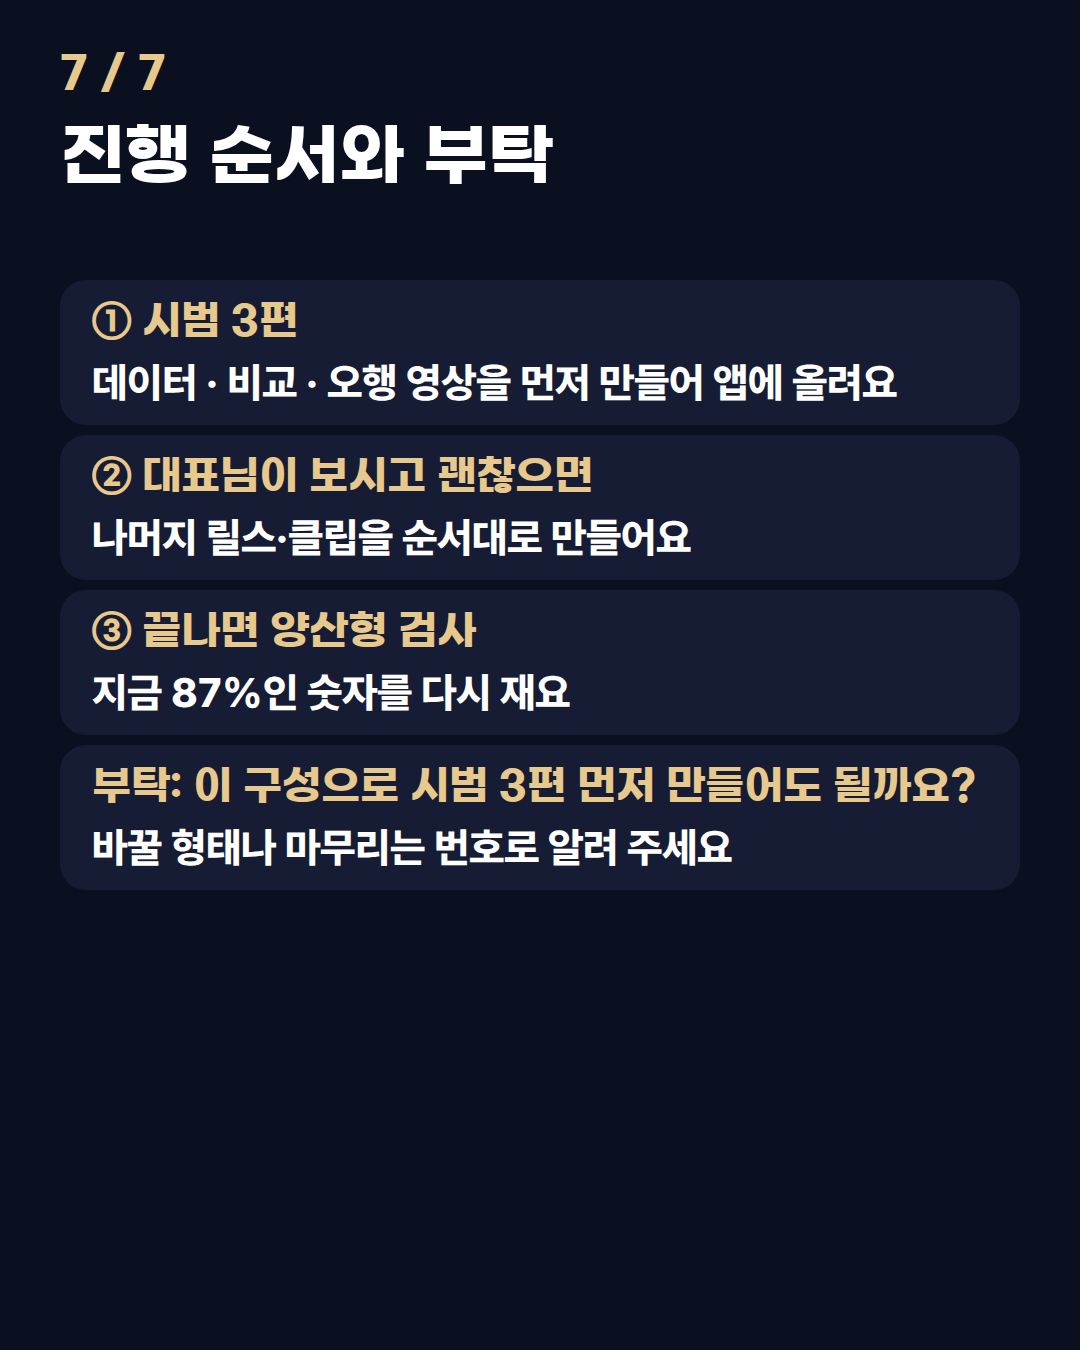
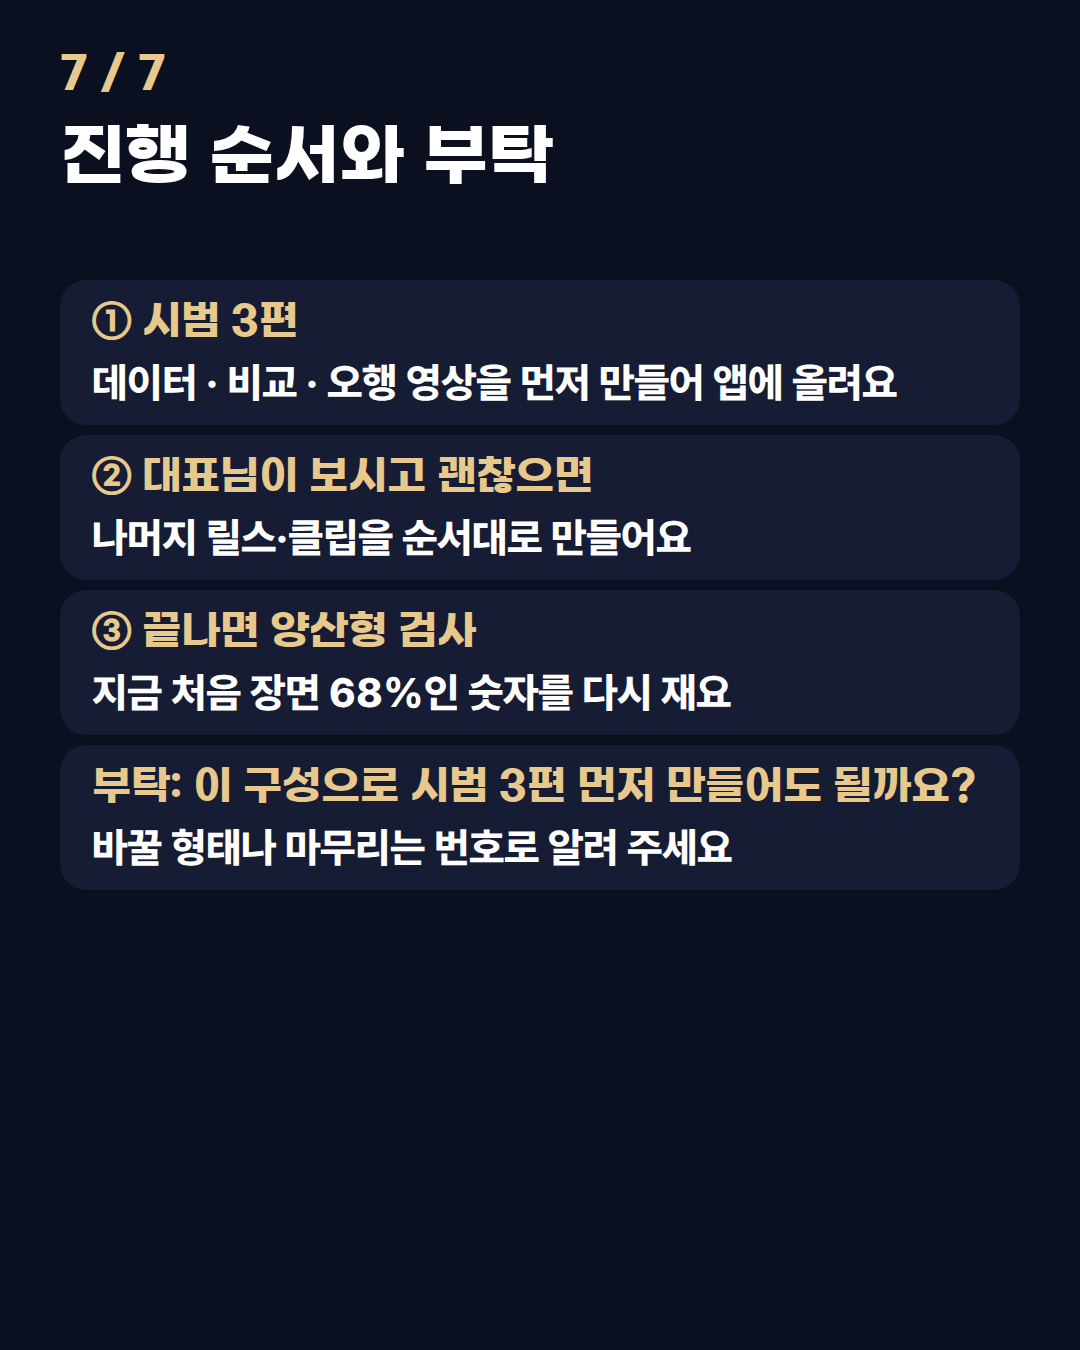
구성안 7번째 장 숫자 정정(87% → 68%)

Changed region(s): [[0.1528, 0.4978, 0.6722, 0.5289]]

diff --git a/pipeline/variety_img.py b/pipeline/variety_img.py
@@ -21,7 +21,7 @@ S = [
  page("4 / 7", "릴스 14편 새 구성 ①", ["<b>같은 말?</b><br>숫자 세기 14 → 점 격자 100 → 두 원 · 얼굴 없음", "<b>닮은 운명학</b><br>막대 24%·13% → 우연선 17% · 얼굴 없음", "<b>별자리 통할까</b><br>12별자리 원형 판에 불이 켜짐 · 얼굴 끝 1장면", "<b>명궁에 별</b><br>12궁 판에서 명궁 하나가 깜빡 · 얼굴 1장면", "<b>중심별</b><br>12개 별이 원형으로 고르게 쌓임 · 얼굴 없음", "<b>내 괘 바뀔까</b><br>동전 여섯 번 → 효 6줄, 바뀌는 효가 반짝", "<b>하락이수 괘</b><br>60칸 판에서 곤괘가 켜짐 · 얼굴 1장면"], 232),
  page("5 / 7", "릴스 14편 새 구성 ②", ["<b>내 사주만 혼자?</b><br>점 6개 중 사주 점 하나만 떨어짐 · 얼굴 없음", "<b>여섯 중 몇 개</b><br>6개 점이 모이는 모임 애니메이션 · 얼굴 1장면", "<b>사주 vs 별자리</b><br>좌우 비교 화면 → 가운데에서 만남 · 얼굴 없음", "<b>3초 사랑</b><br>사주·별자리·숫자 3칸이 겹쳐 체크 · 얼굴 표지만", "<b>말하면 끄덕</b><br>말풍선이 쌓이는 글자 효과 · 얼굴 1장면", "<b>갑·을</b><br>큰 나무 / 휘는 풀 그림이 주인공 · 얼굴 1장면"], 250),
  page("6 / 7", "글 연결 클립 13편", ["<b>틀은 같아도 형태는 다르게</b><br>질문→오해→정리 틀 안에서 체크 목록 · 배터리 · 좌우 비교 · 타임라인 · 숫자를 돌려 써요", "<b>정월 얼굴은 클립당 1장면</b><br>표지 또는 정리 중 한 곳에만", "<b>마무리 5가지를 돌려요</b><br>① 팔로우 카드 ② 댓글 질문 크게 ③ 스티커 알약<br>④ 한 줄 정리+팔로우 ⑤ 숫자 반복+팔로우", "<b>팔로우·홈페이지 문구</b><br>모든 마무리에 들어가요"], 280),
- page("7 / 7", "진행 순서와 부탁", ["<b>① 시범 3편</b><br>데이터 · 비교 · 오행 영상을 먼저 만들어 앱에 올려요", "<b>② 대표님이 보시고 괜찮으면</b><br>나머지 릴스·클립을 순서대로 만들어요", "<b>③ 끝나면 양산형 검사</b><br>지금 87%인 숫자를 다시 재요", "<b>부탁: 이 구성으로 시범 3편 먼저 만들어도 될까요?</b><br>바꿀 형태나 마무리는 번호로 알려 주세요"], 280),
+ page("7 / 7", "진행 순서와 부탁", ["<b>① 시범 3편</b><br>데이터 · 비교 · 오행 영상을 먼저 만들어 앱에 올려요", "<b>② 대표님이 보시고 괜찮으면</b><br>나머지 릴스·클립을 순서대로 만들어요", "<b>③ 끝나면 양산형 검사</b><br>지금 처음 장면 68%인 숫자를 다시 재요", "<b>부탁: 이 구성으로 시범 3편 먼저 만들어도 될까요?</b><br>바꿀 형태나 마무리는 번호로 알려 주세요"], 280),
 ]
 async def main():
     bad = 0
